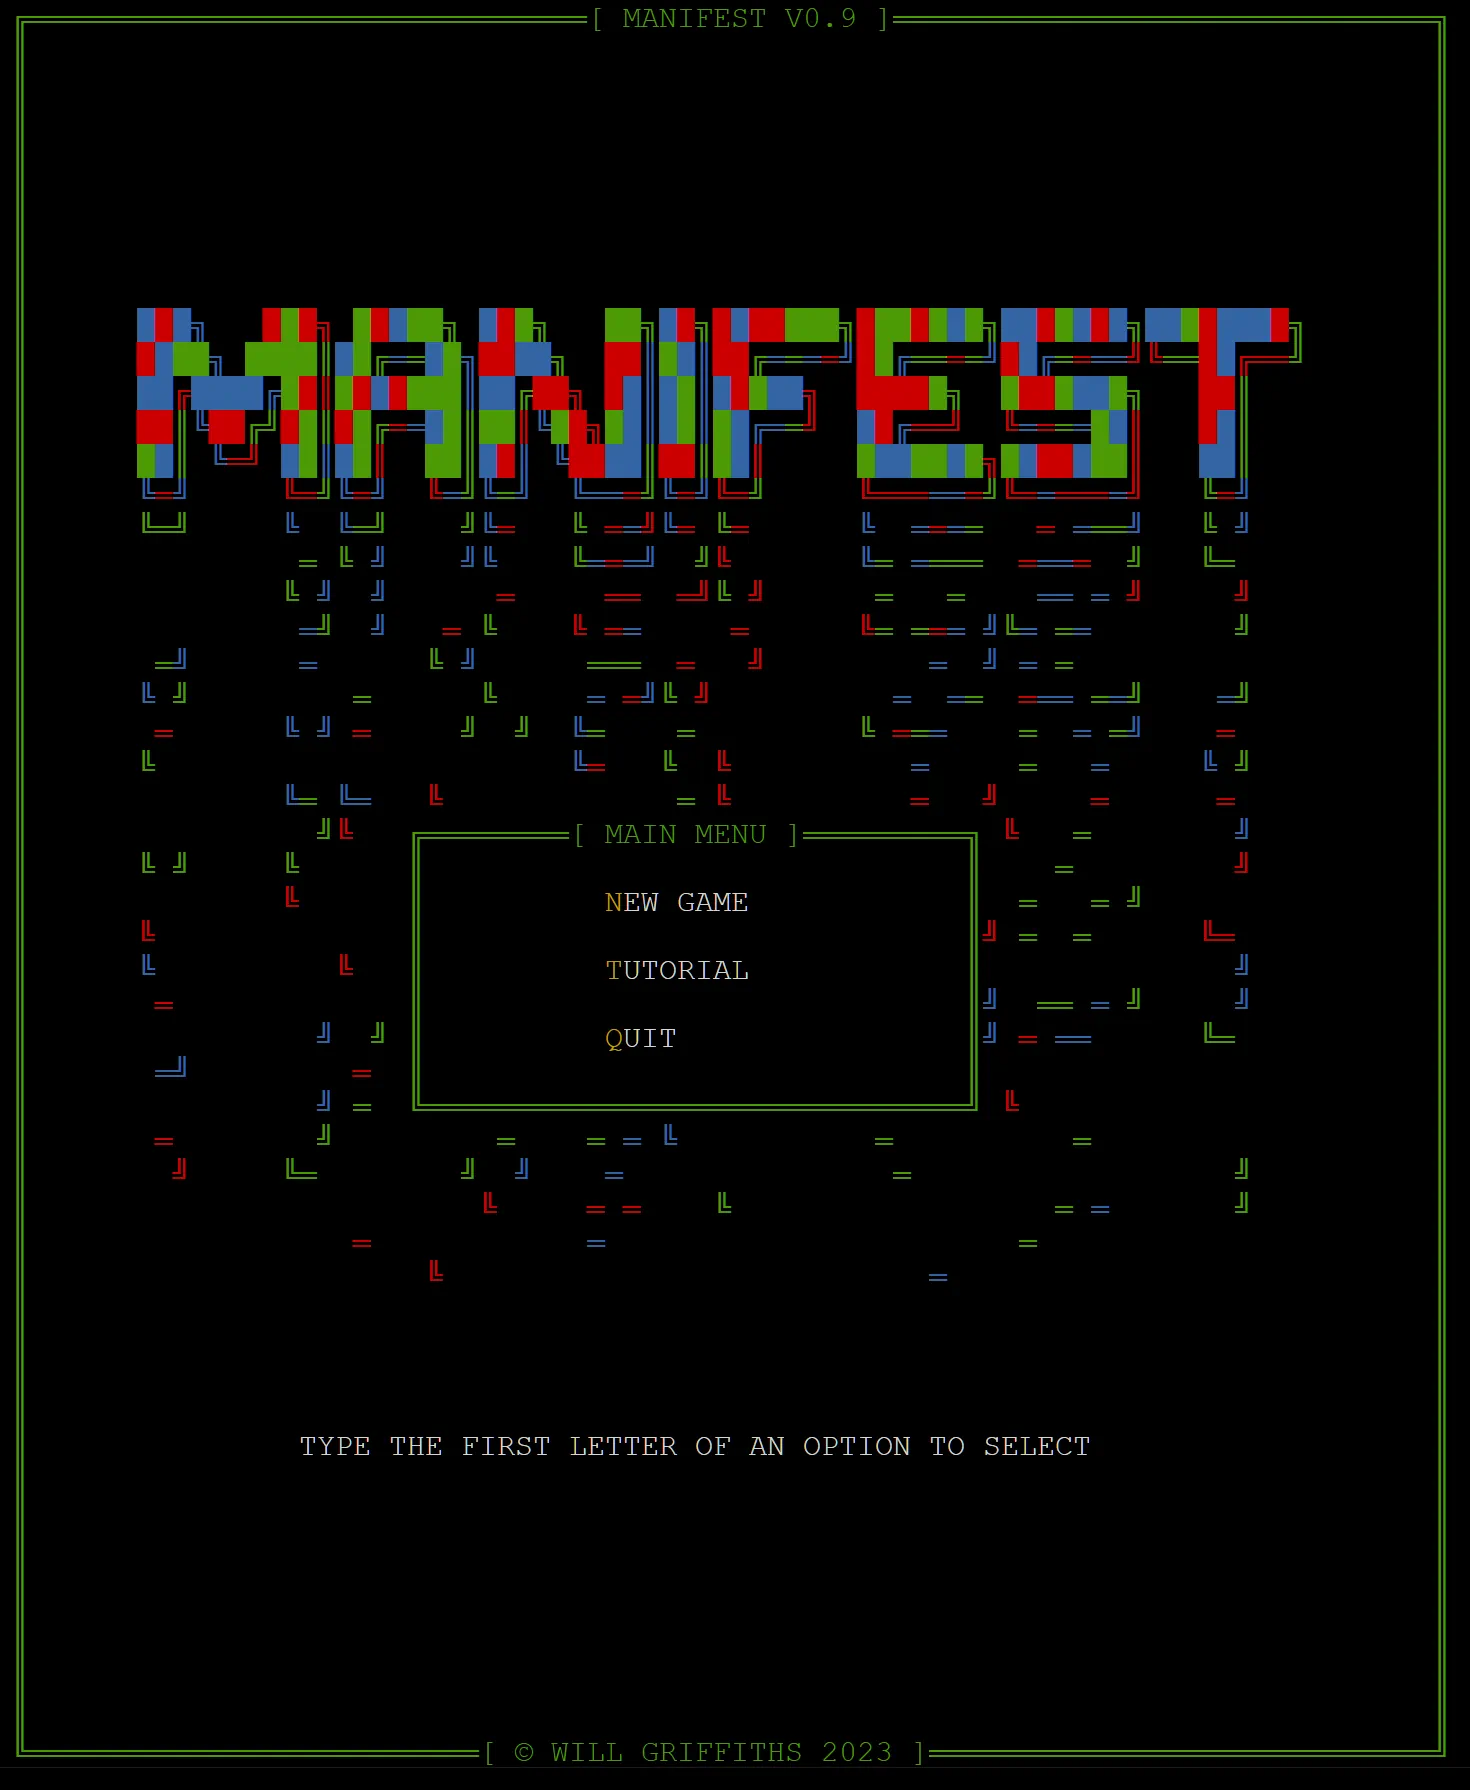
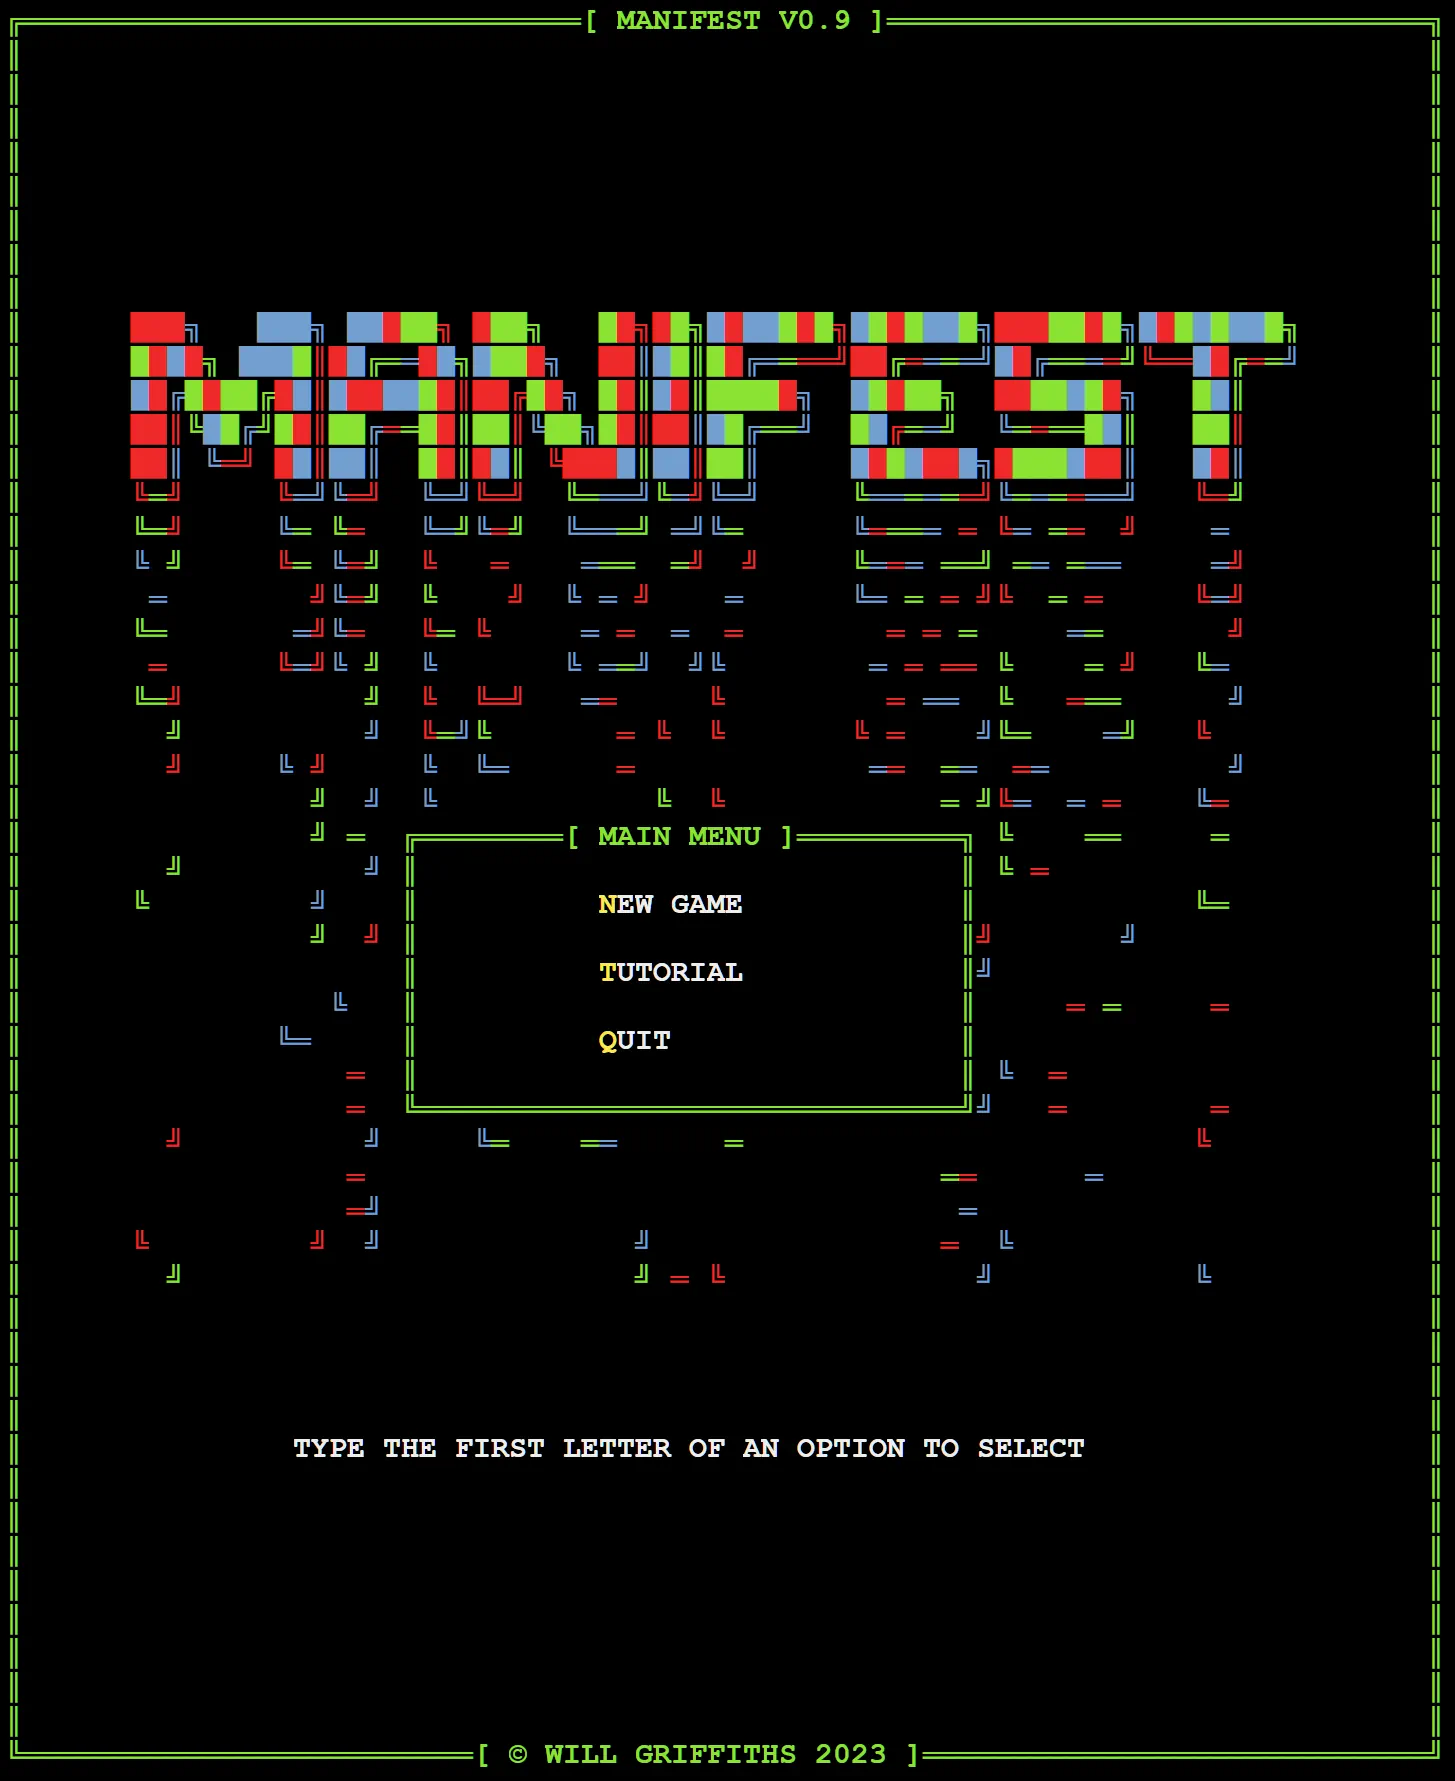
Docs - Readme updates and images

diff --git a/manifest.py b/manifest.py
@@ -446,6 +446,7 @@ def decrypt_record_game(scr):
     c.DECRYPT_AVAILABLE = False
     time.sleep(1)
     c.DRG_ACT = False
+    time.sleep(.1)
     c.DSP_GAME_TMR = True
     time.sleep(.1)
     curses.flushinp()

diff --git a/README.md b/README.md
@@ -2,8 +2,9 @@
 # Manifest
 ## **Game Overview**
 
-Manifest is a retro, text based, observation game built purely in Python.
-You play the role of a spaceship security officer responsible for passenger boarding
+Manifest is a retro, text based, observation and decryption game built purely in Python that runs in an emaulated terminal(xterm.js) and is deployed via Heroku.
+
+You play the role of a spaceship security officer responsible for passenger boarding.
 
 ![Menu](./assets/docs/main_menu.webp)
 ![Game Screen](./assets/docs/main_game.png)
@@ -71,18 +72,20 @@ My core aims for the project
 
 * The game should, provide a tutorial
 * The game should, provide a main menu
+* The game should, provide difficulty settings
+
 
 
 
 ### **Wireframes:**
 
-I did produce an initial wireframe but didn't want to commit to a vision when design options would be limited
+I did produce an initial wireframe but didn't want to commit to a complex vision when design options would be limited in a terminal.
 
-![Wireframe 1](./assets/docs/wireframe1.JPG)
+![Wireframe 1](./assets/docs/wireframe.JPG)
 
 ### **Logic Flow:**
 
-I created a flowchart for the core flow although
+I created a high level flowchart for the core game loop
 
 ### **Color Scheme:**
 
@@ -125,23 +128,11 @@ The general dev cycle testing procedure was..
 
 ## **Defects**
 
-Rigorous testing of my code while I built it paid off when it came to testing the end product.
-I don't feel I have any major defects outside of platform specific problems.
 
-I did find a few bugs in my final testing that were not covered by specific tests...
-
-Issue - Player can click on a previously selected cards and trigger game over.
-Fix - Removed event listener from card once its click event fires. I was positive I already had this code in there but must have removed it at some stage.
-
-Issue - Theme Beat audio effect was playing over the round well done effect.
-Fix - Moved the playback call to when we show the main menu again.
 
 ### **Unresolved**
 
-The main outstanding issue is display glitches on MAC/IOS/IpadOS although minor, along with the challenges with playing sounds consistently. If I had hardware to test on more then I'd do more work with the various css webkit extensions that might resolve things.
-
-Recommendation for Apple devices is to leave music disabled.
-From my research it's clear the best path is to convert this into an IOS app. The irony that I created the music on an Ipad is not lost on me.
+threading and curses seems to trigger vary rare screen coruption.
 
 
 ## **Deployment**
@@ -164,7 +155,7 @@ Deployment to another host is also possible
   
 To make a copy of this GitHub repository that allows you to view the content and make changes without affecting the original repository, please take the following steps:
   
-1. Login to <b>GitHub</b> and find [this repository](https://github.com/Will-Griffiths-Ireland/Memoria).
+1. Login to <b>GitHub</b> and find [this repository](https://github.com/Will-Griffiths-Ireland/Manifest).
 2. Locate the <b>Fork</b> button in the top, right hand side of the page.
 3. Click on the <b>Fork</b> button to create a copy of the repository in your GitHub account.
 4. Enjoy yourself and be creative, I welcome feedback if you have any to give!
@@ -175,20 +166,7 @@ To make a copy of this GitHub repository that allows you to view the content and
 
 These are the technologies used for this project.
 
-- HTML5
-- CSS3
-- Javascript (vanilla)
-- MS Powerpoint (cards)
-- Balsamiq for wireframes
-- Paint.net (Image editing/sizing/compression)
-- XnCovert (image resizing)
-- Audacity (Sound Editing)
-- Garage Band (music Creation)
-- Github for version control and deployment
-- Gitpod for development
-- Google Icons
-- https://cssgradient.io/ (gradient code generator)
-- https://favicon.io/favicon-generator/ 
+- Python 
 
 ----
 
@@ -197,34 +175,24 @@ These are the technologies used for this project.
 
 ### **User Enhancements**
 
-* The music needs work :)
-* Adding a mode that doesn't use animations at all but still has the mechanics of making the player pause for a second or 2 before selecting cards.
-* Multiple saved states in local storage all connected to the username and parsing keys/values for their related settings.
-* Augmenting the 'low' quality card image mode with a 'pixel art' setting would be cool but a lot of hands-on crafting.
-* Building a full IOS app... 
+* ?
 
 ### **Internal Enhancements**
 
-* Modularize JS into multiple files and use import/export (I know I could have just split the file up and loaded in multiple tags but thats not useful in production environments )
-* Refactor code further to reduce size and structure. This was my first JS application and I have learned so much on the journey thats its hard to resist the urge to change things just before submission!
+* ?
 
 ## **Credits**
 ### **Honorable mentions**
 
-Thanks to my mentor Richard who provided valuable input.
-Thanks to the multiple talented folks across the globe that put effort into producing tutorials and guides.
-Just to name a couple..
-- Kevin Powell https://www.youtube.com/@KevinPowell
-- developedbyed https://www.youtube.com/@developedbyed
+Thanks to my mentor Richard who provided valuable input as always
 
 
 ### **Content:**
 
-The game concept is my original idea. I took some inspiration from a video by developedbyed https://youtu.be/-tlb4tv4mC4 but I really tried to go and do my own thing rather than copy any of his code. 
+I created all the content for the game myself
   
 ### **Media:**
 
-* All images were self created in MS Powerpoint using inbuilt icons
-* All sound effects and music were self created using Audacity and Garage Band
+* The manifest logo was created via https://manytools.org/hacker-tools/ascii-banner/
 
 
